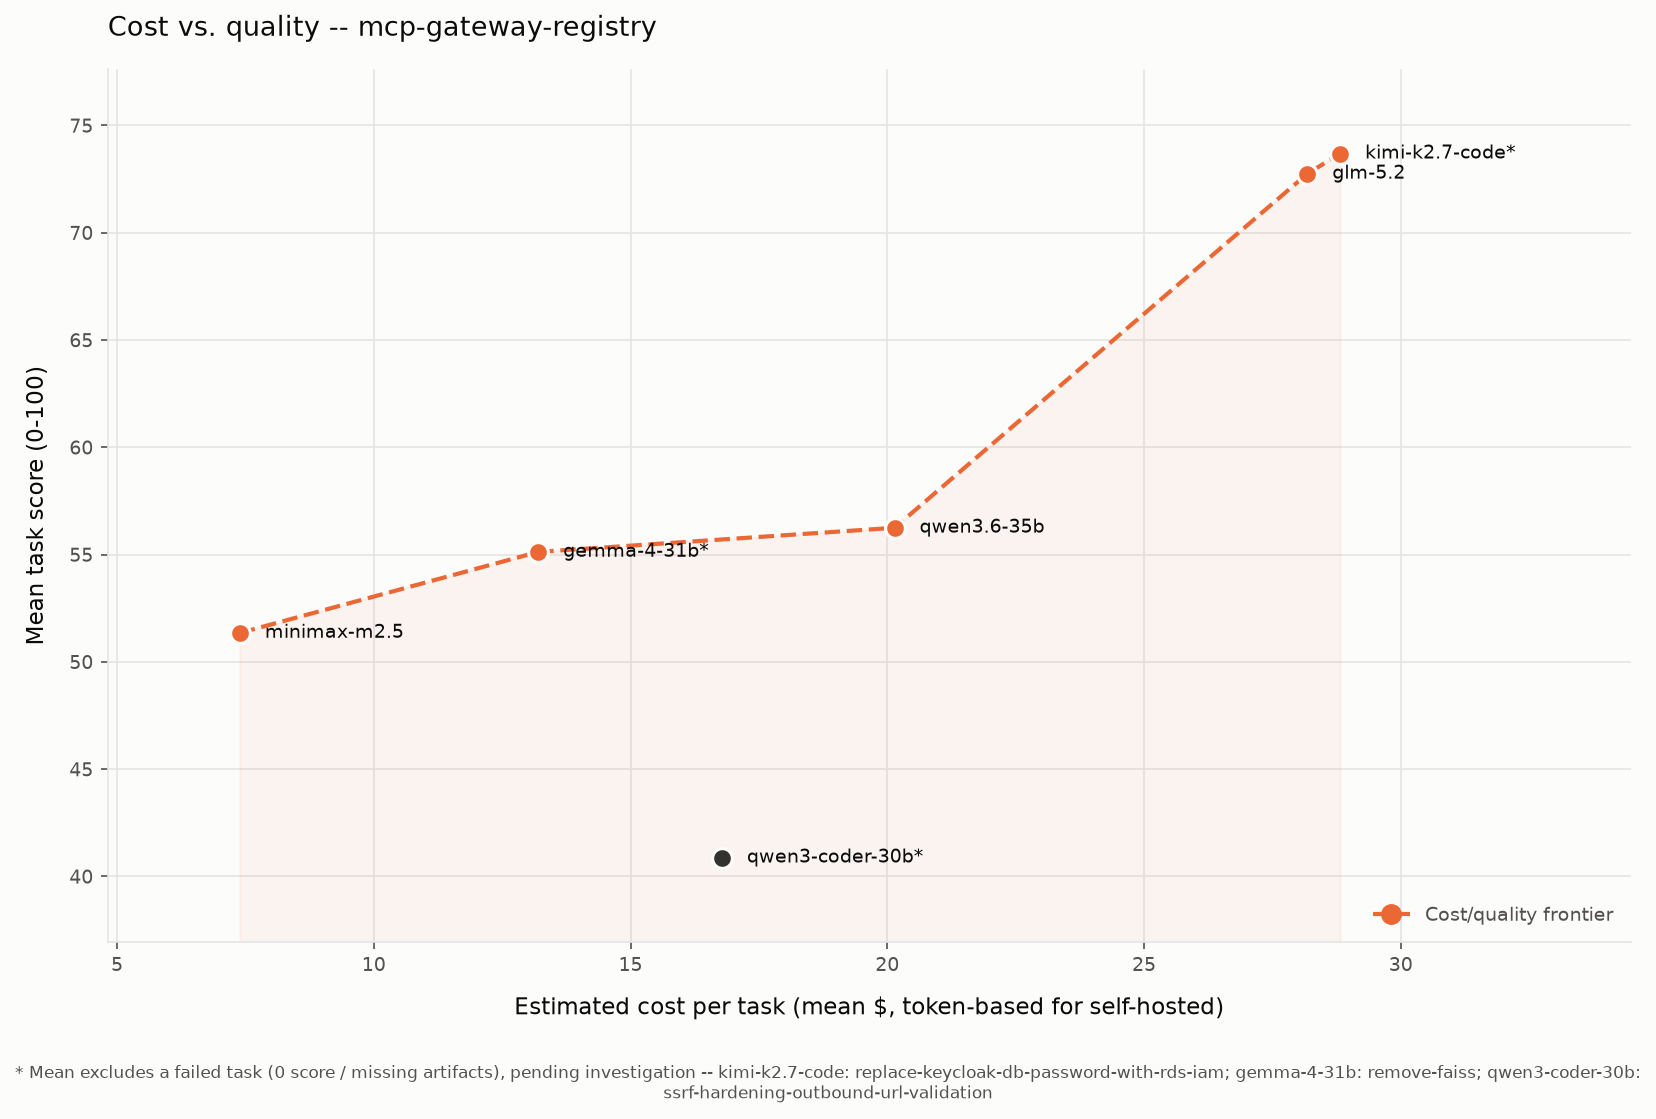
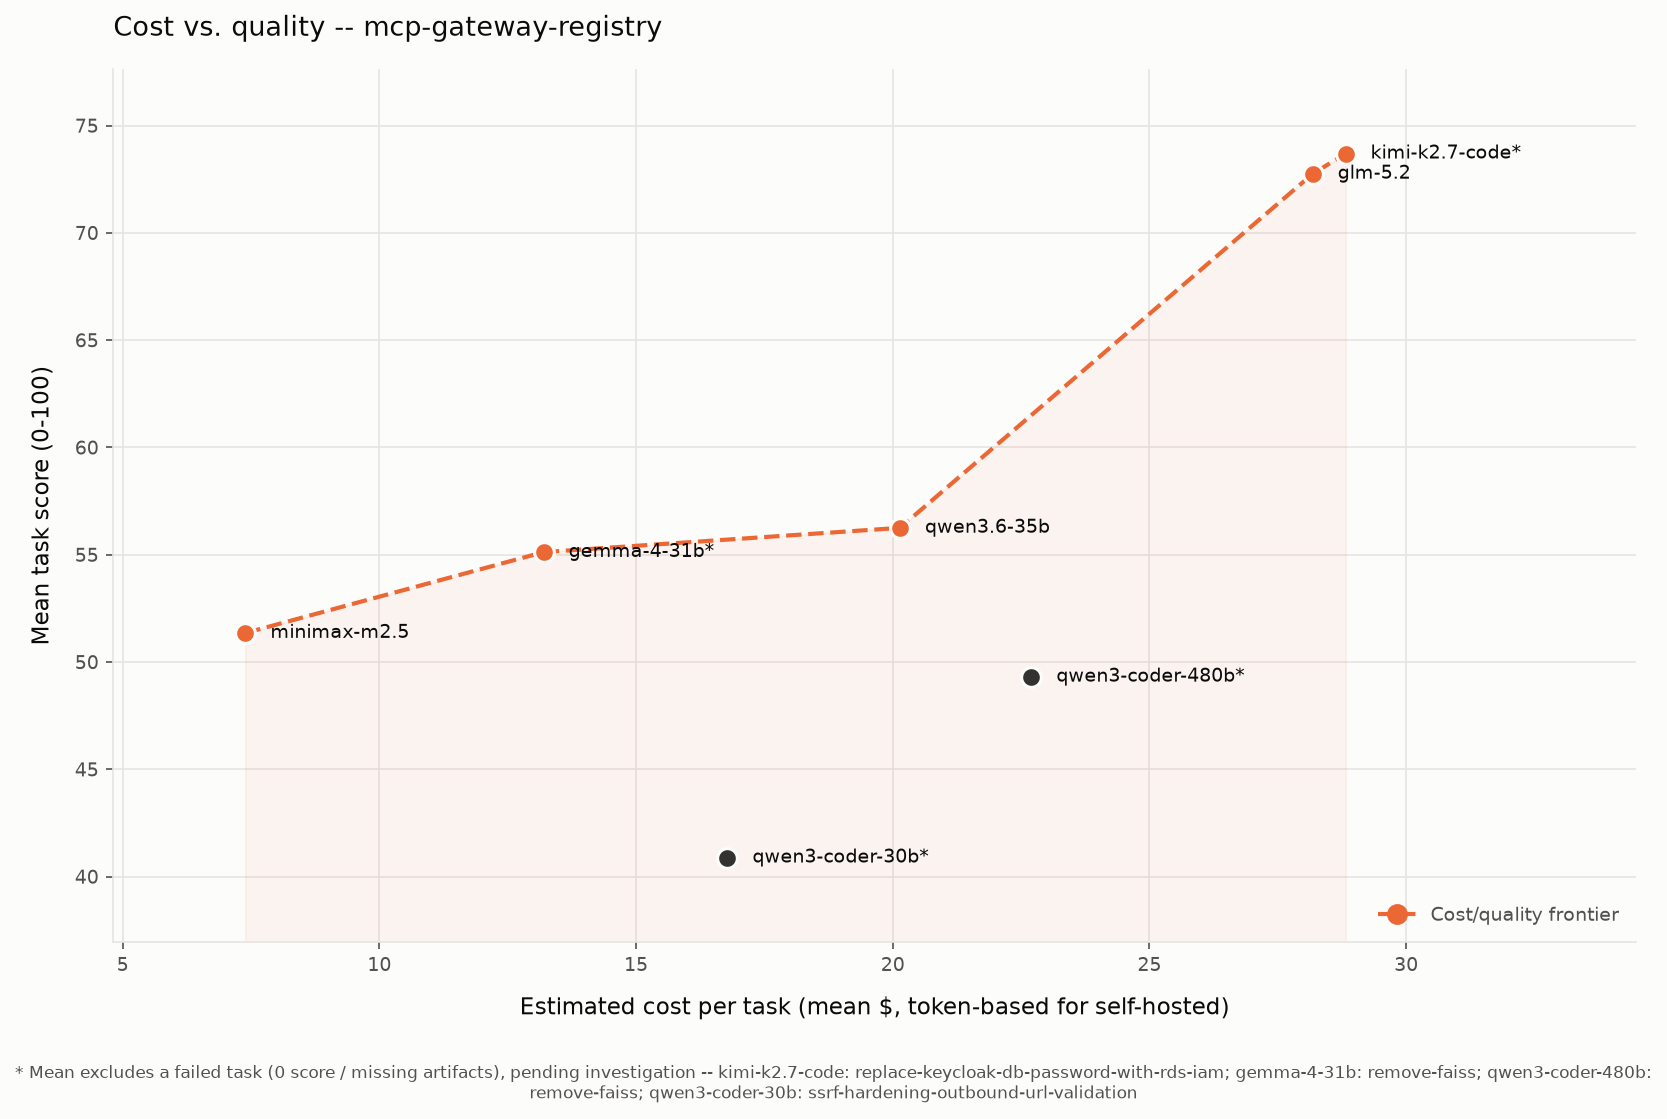
Add Qwen3-Coder-480B to README results; plot chart from RUN-SUMMARY.json
Add the Qwen3-Coder-480B-A35B-Instruct self-hosted result (8x H200, TP=4, FP8,
mean 49.31 over 4/5 tasks) to the README: a new column in the results matrix,
a leaderboard row, the models-benchmarked and hardware lines, and footnote 7
documenting its nondeterministic artifact-authoring failures (the pass/fail set
flips run to run; re-running does not reliably fix a given task).

Regenerate the cost-vs-quality chart (light + dark) to include all seven
self-hosted models. To make the chart reproducible from committed data, teach
plot_cost_quality.py to read each model's committed RUN-SUMMARY.json first
(which carries the leaderboard-convention means for every model, including runs
produced on another node), falling back to per-task metrics.json/eval.json when
no summary is present. Qwen3-Coder-480B and Qwen3-Coder-30B both plot below the
cost/quality frontier.

diff --git a/benchmarks/scripts/plot_cost_quality.py b/benchmarks/scripts/plot_cost_quality.py
@@ -7,11 +7,15 @@ scores shown in the README leaderboard) on the y-axis. Non-dominated models --
 those where no other model is both cheaper and higher-scoring -- are connected by
 a highlighted frontier line, so the cost/quality trade-off is read at a glance.
 
-Each model's numbers come straight from its per-task ``metrics.json``
-(``total_cost_usd``) and ``eval.json`` (``task_score``). A task that scored 0 (a
-model failure -- missing artifacts) is an unresolved anomaly, not a quality
-reading, so it is EXCLUDED from both the score and cost means and noted on the
-chart, pending investigation.
+Each model's numbers come from its committed ``RUN-SUMMARY.json`` when present
+(the reproducible, machine-readable per-run record written by
+``summarize_run.py``), falling back to aggregating the per-task ``metrics.json``
+(``total_cost_usd``) and ``eval.json`` (``task_score``) when it is not. Using the
+summary means the chart plots every model in the repo -- including runs produced
+on a different node whose gitignored per-task files are not present locally. A
+task that scored 0 (a model failure -- missing artifacts) is an unresolved
+anomaly, not a quality reading, so it is EXCLUDED from both the score and cost
+means and noted on the chart, pending investigation.
 
 Note: for self-hosted vLLM runs ``total_cost_usd`` is a token-based *estimate*
 (the served model has no per-token bill), so the x-axis is labelled as estimated.
@@ -50,6 +54,12 @@ DEFAULT_DATA_DIR = _BENCHMARKS_DIR / "swe-benchmark-data"
 DEFAULT_OUTPUT = _REPO_ROOT / "docs" / "images" / "cost-quality.png"
 METRICS_FILENAME = "metrics.json"
 EVAL_FILENAME = "eval.json"
+# The committed, machine-readable per-run summary (written by summarize_run.py).
+# Preferred source: it carries the same excluded-failure means as the leaderboard
+# and, unlike the gitignored per-task metrics.json/eval.json, is present for every
+# model in the repo -- including runs produced on a different node. This is what
+# makes the chart reproducible from committed data alone.
+RUN_SUMMARY_FILENAME = "RUN-SUMMARY.json"
 
 # Palette (from the dataviz skill's validated reference instance). Marks are a
 # recessive dark neutral; the frontier is the warm accent. Text wears ink tokens.
@@ -111,20 +121,59 @@ def _task_score(eval_data: dict | None) -> float | None:
     return float(score) if isinstance(score, (int, float)) else None
 
 
-def _aggregate_model(model_repo_dir: Path) -> ModelPoint | None:
-    """Aggregate one model's per-task cost and score under a repo directory.
+def _point_from_summary(model_repo_dir: Path) -> ModelPoint | None:
+    """Build a ModelPoint from the committed RUN-SUMMARY.json, if present.
 
-    A task folder must have ``metrics.json`` (for cost) to count. Tasks that
-    scored 0 -- a genuine model failure (missing/empty artifacts) rather than a
-    quality measurement -- are **excluded** from both the score and cost means
-    and returned in ``excluded`` for a visible note, pending investigation.
+    RUN-SUMMARY.json already carries the leaderboard-convention means (failed
+    0-score tasks excluded) and is committed for every model, so it is the
+    preferred, fully reproducible source. Returns None when the file is absent
+    or lacks a usable mean score, so the caller can fall back to per-task files.
 
     Args:
         model_repo_dir: ``<data-dir>/<model>/<repo>`` directory.
 
     Returns:
-        The model's aggregate, or None if it has no task folders at all.
+        The model's aggregate, or None if no usable summary exists.
     """
+    summary = _read_json(model_repo_dir / RUN_SUMMARY_FILENAME)
+    if summary is None:
+        return None
+    score = summary.get("mean_task_score_excl_failed")
+    if not isinstance(score, (int, float)):
+        return None
+    cost = summary.get("mean_cost_usd_excl_failed")
+    excluded = summary.get("failed_tasks") or []
+    return ModelPoint(
+        model=model_repo_dir.parent.name,
+        mean_cost=float(cost) if isinstance(cost, (int, float)) else 0.0,
+        mean_score=float(score),
+        n_tasks=int(summary.get("num_tasks") or 0),
+        n_scored=int(summary.get("num_scored") or 0),
+        excluded=list(excluded),
+    )
+
+
+def _aggregate_model(model_repo_dir: Path) -> ModelPoint | None:
+    """Aggregate one model's cost and score under a repo directory.
+
+    Prefers the committed ``RUN-SUMMARY.json`` (present for every model and
+    reproducible from git). Falls back to aggregating the per-task
+    ``metrics.json`` / ``eval.json`` when no summary exists (e.g. a fresh run
+    not yet summarized). Tasks that scored 0 -- a genuine model failure
+    (missing/empty artifacts) rather than a quality measurement -- are
+    **excluded** from both means and returned in ``excluded`` for a visible
+    note, pending investigation.
+
+    Args:
+        model_repo_dir: ``<data-dir>/<model>/<repo>`` directory.
+
+    Returns:
+        The model's aggregate, or None if it has neither a summary nor tasks.
+    """
+    from_summary = _point_from_summary(model_repo_dir)
+    if from_summary is not None:
+        return from_summary
+
     model = model_repo_dir.parent.name
     costs: list[float] = []
     scores: list[float] = []

diff --git a/README.md b/README.md
@@ -107,7 +107,7 @@ To show what the harness produces, we ran it against [agentic-community/mcp-gate
 | 4 | `migrate-ecs-env-vars-to-secrets-manager` | High | Upstream [#1134](https://github.com/agentic-community/mcp-gateway-registry/issues/1134) |
 | 5 | `replace-keycloak-db-password-with-rds-iam` | High | Upstream [#1303](https://github.com/agentic-community/mcp-gateway-registry/issues/1303) |
 
-**Models benchmarked so far (all Path 3, self-hosted on vLLM):** Kimi-K2.7-Code, GLM-5.2, and MiniMax-M2.5 (all on 8x H200 / `p5en.48xlarge`), plus Qwen3.6-35B-A3B, Qwen3-Coder-30B-A3B-Instruct, Qwen3-Coder-Next, and Gemma-4-31B-it (on `g6e.12xlarge` / 4x L40S). **Coming soon:** Path 1 (Anthropic family on Bedrock -- Claude Opus/Sonnet/Haiku) and Path 2 (open-weight on Bedrock via the LiteLLM proxy -- DeepSeek, Mistral, …).
+**Models benchmarked so far (all Path 3, self-hosted on vLLM):** Kimi-K2.7-Code, GLM-5.2, MiniMax-M2.5, and Qwen3-Coder-480B-A35B-Instruct (all on 8x H200 / `p5en.48xlarge`), plus Qwen3.6-35B-A3B, Qwen3-Coder-30B-A3B-Instruct, Qwen3-Coder-Next, and Gemma-4-31B-it (on `g6e.12xlarge` / 4x L40S). **Coming soon:** Path 1 (Anthropic family on Bedrock -- Claude Opus/Sonnet/Haiku) and Path 2 (open-weight on Bedrock via the LiteLLM proxy -- DeepSeek, Mistral, …).
 
 ### Scoring rubric (LLM-as-judge)
 
@@ -126,18 +126,18 @@ Each of the 4 artifacts is scored 0-100 by an independent judge session. Within 
 
 All cells are task scores (0-100), the mean of the 4 artifact totals per (task x model). All models were **self-hosted via vLLM** and scored by the same judge (`codex exec`, `gpt-5.6-sol`, high reasoning effort). Hardware differs by model size (see the row under the table). Bold = top score in row. Other hosting paths are **coming soon**.
 
-| Task | Difficulty | Kimi-K2.7-Code | GLM-5.2⁶ | Qwen3.6-35B | Gemma-4-31B | MiniMax-M2.5 | Qwen3-Coder-30B | Qwen3-Coder-Next⁴ |
-|------|-----------|---------------:|---------:|------------:|------------:|-------------:|----------------:|:-----------------:|
-| `remove-faiss` | Medium | **75.25** | 66.0 | 59.25 | 0.0 ⁵ | 55.75 | 49.0 | n/a |
-| `remove-efs-from-terraform-aws-ecs` | Medium | 71.25 | **79.0** | 63.0 | 59.5 | 58.5 | 45.0 | n/a |
-| `ssrf-hardening-outbound-url-validation` | Medium | 72.75 | **76.75** | 55.75 | 63.25 | 49.5 | 0.0 ⁵ | n/a |
-| `migrate-ecs-env-vars-to-secrets-manager` | High | **75.5** | 73.5 | 54.5 | 45.75 | 45.0 | 36.25 | n/a |
-| `replace-keycloak-db-password-with-rds-iam` | High | 0.0 ⁵ | **68.5** | 48.75 | 52.0 | 48.0 | 33.25 | n/a |
-| **Mean (excl. failed task⁵)** | | **73.69** | 72.75 | **56.25** | 55.12 | 51.35 | 40.88 | n/a |
+| Task | Difficulty | Kimi-K2.7-Code | GLM-5.2⁶ | Qwen3.6-35B | Gemma-4-31B | MiniMax-M2.5 | Qwen3-Coder-480B⁷ | Qwen3-Coder-30B | Qwen3-Coder-Next⁴ |
+|------|-----------|---------------:|---------:|------------:|------------:|-------------:|------------------:|----------------:|:-----------------:|
+| `remove-faiss` | Medium | **75.25** | 66.0 | 59.25 | 0.0 ⁵ | 55.75 | 0.0 ⁵ | 49.0 | n/a |
+| `remove-efs-from-terraform-aws-ecs` | Medium | 71.25 | **79.0** | 63.0 | 59.5 | 58.5 | 52.25 | 45.0 | n/a |
+| `ssrf-hardening-outbound-url-validation` | Medium | 72.75 | **76.75** | 55.75 | 63.25 | 49.5 | 56.0 | 0.0 ⁵ | n/a |
+| `migrate-ecs-env-vars-to-secrets-manager` | High | **75.5** | 73.5 | 54.5 | 45.75 | 45.0 | 44.75 | 36.25 | n/a |
+| `replace-keycloak-db-password-with-rds-iam` | High | 0.0 ⁵ | **68.5** | 48.75 | 52.0 | 48.0 | 44.25 | 33.25 | n/a |
+| **Mean (excl. failed task⁵)** | | **73.69** | 72.75 | **56.25** | 55.12 | 51.35 | 49.31 | 40.88 | n/a |
 
-The **Mean** row excludes any task that scored 0 -- a genuine model failure (missing artifacts), which is an unresolved anomaly rather than a quality measurement, so it is left out of the average **pending further investigation** and flagged with `⁵`. Per-task 0.0 cells are still shown so the failure is visible; Kimi's mean is over the 4 tasks it completed, Gemma-4-31B's over its 4, Qwen3-Coder-30B's over its 4, and GLM-5.2 / Qwen3.6-35B / MiniMax-M2.5 over all 5 (no failures).
+The **Mean** row excludes any task that scored 0 -- a genuine model failure (missing artifacts), which is an unresolved anomaly rather than a quality measurement, so it is left out of the average **pending further investigation** and flagged with `⁵`. Per-task 0.0 cells are still shown so the failure is visible; Kimi's mean is over the 4 tasks it completed, Gemma-4-31B's over its 4, Qwen3-Coder-30B's over its 4, Qwen3-Coder-480B's over its 4, and GLM-5.2 / Qwen3.6-35B / MiniMax-M2.5 over all 5 (no failures).
 
-**Hardware:** Kimi-K2.7-Code (1.06T-param MoE, ~1 TB weights) ran on **8x H200** (`p5en.48xlarge`) at its full **131,072-token (128K) native context window**; GLM-5.2 (744B MoE / 40B active, ~750 GB FP8 weights) and MiniMax-M2.5 also ran on **8x H200** (`p5en.48xlarge`); the three Qwen models (3B-active MoE) and Gemma-4-31B (dense, ~63 GB) ran on a single **`g6e.12xlarge`** (4x L40S) at a 200K window. All via vLLM. Gemma-4-31B is dense and slow, so it used a raised per-task timeout (`--timeout-seconds 3600`); the default 1800s was not enough for it to return. Note Kimi's 128K window is below the harness's 200K agentic-coding guideline, yet it completed 4 of 5 tasks -- the one failure (`keycloak-rds-iam`) was a turn-cap timeout, not a context overflow.
+**Hardware:** Kimi-K2.7-Code (1.06T-param MoE, ~1 TB weights) ran on **8x H200** (`p5en.48xlarge`) at its full **131,072-token (128K) native context window**; GLM-5.2 (744B MoE / 40B active, ~750 GB FP8 weights), MiniMax-M2.5, and Qwen3-Coder-480B (480B MoE / 35B active, FP8, TP=4) also ran on **8x H200** (`p5en.48xlarge`); the three smaller Qwen models (3B-active MoE) and Gemma-4-31B (dense, ~63 GB) ran on a single **`g6e.12xlarge`** (4x L40S) at a 200K window. All via vLLM. Gemma-4-31B is dense and slow, so it used a raised per-task timeout (`--timeout-seconds 3600`); the default 1800s was not enough for it to return. Note Kimi's 128K window is below the harness's 200K agentic-coding guideline, yet it completed 4 of 5 tasks -- the one failure (`keycloak-rds-iam`) was a turn-cap timeout, not a context overflow.
 
 ⁴ Qwen3-Coder-Next (79.6B, ~160 GB weights) **could not be benchmarked on the `g6e.12xlarge`.** There the weights leave room for only a ~16K context window, but agentic coding tasks need 100K-250K input tokens per request, so every task overflows the window on the first prompt. It needs a larger-VRAM node (e.g. `g6e.48xlarge`) to serve a >=200K window. The `/benchmark` skill enforces a 200K-minimum gate by default as a conservative guideline -- Kimi's 128K run shows a window somewhat below 200K can still work when the tasks fit, but 16K cannot. See [self-hosted/vllm/models/qwen3-coder-next.md](self-hosted/vllm/models/qwen3-coder-next.md).
 
@@ -145,11 +145,13 @@ The **Mean** row excludes any task that scored 0 -- a genuine model failure (mis
 
 ⁶ **GLM-5.2 ran with more headroom than the others -- not strictly apples-to-apples.** GLM-5.2 (`zai-org/GLM-5.2-FP8`, 744B MoE / 40B active, ~750 GB FP8 weights) was served on **8x H200** at a **300K context window** and run with **`max_turns=100`**, whereas Kimi ran at its native 128K window and all models above used the default 60-turn cap. The larger turn budget is why GLM-5.2 completed all 5 tasks including `keycloak-rds-iam` (the task Kimi failed at the 60-turn cap): its mean is over 5/5 tasks with no failures. Treat the GLM-5.2 vs Kimi comparison as indicative rather than head-to-head until both are re-run under identical window/turn settings.
 
+⁷ **Qwen3-Coder-480B intermittently fails to produce artifacts -- the failure is nondeterministic, not task-specific.** Qwen3-Coder-480B (`Qwen/Qwen3-Coder-480B-A35B-Instruct-FP8`, 480B MoE / 35B active) was served on the **8x H200** node at **TP=4** (a block-FP8 MoE sharding constraint forces TP=4, not 8 -- see [its model guide](self-hosted/vllm/models/qwen3-coder-480b.md)), 200K window, `max_turns=100`. Like the smaller Qwen3-Coder-30B, it periodically explores/edits the repo instead of writing the four design artifacts (or runs away and exhausts the turn cap), scoring 0. Re-running does **not** reliably fix a given task: across two full runs, four of the five tasks flipped pass/fail state -- the three that failed the first run all recovered, while `remove-faiss` (which passed run 1) failed run 2 at the turn cap. The table shows the second run (4/5, mean 49.31). It is a harness-conformance instability of a coder-tuned model in a design-only harness, not a serving or context problem.
+
 ### Cost vs. quality
 
 ![Cost vs. quality scatter: mean estimated cost per task against mean task score, for the self-hosted models, with the cost/quality frontier highlighted](docs/images/cost-quality.png)
 
-Mean estimated cost per task (x, token-based for self-hosted) against mean task score (y), one point per model. The cost/quality frontier runs MiniMax-M2.5 -> Gemma-4-31B -> Qwen3.6-35B -> GLM-5.2 -> Kimi-K2.7-Code; Qwen3-Coder-30B sits **below** the frontier (dominated -- it costs more than Gemma-4-31B yet scores lower), and Qwen3-Coder-Next is omitted (no scored run on this node). A model's mean excludes any 0-score failed task, matching the table (see footnote ⁵). Regenerate from the run artifacts with `uv run scripts/plot_cost_quality.py` (add `--dark` for the dark theme) from `benchmarks/`.
+Mean estimated cost per task (x, token-based for self-hosted) against mean task score (y), one point per model. The cost/quality frontier runs MiniMax-M2.5 -> Gemma-4-31B -> Qwen3.6-35B -> GLM-5.2 -> Kimi-K2.7-Code; Qwen3-Coder-30B and Qwen3-Coder-480B both sit **below** the frontier (dominated -- each costs more than a frontier model at its score yet scores lower; the 480B in particular lands at ~$22.7/49.31, well inside the frontier), and Qwen3-Coder-Next is omitted (no scored run on this node). A model's mean excludes any 0-score failed task, matching the table (see footnote ⁵). Regenerate from the run artifacts with `uv run scripts/plot_cost_quality.py` (add `--dark` for the dark theme) from `benchmarks/`.
 
 ### Per-model leaderboard (self-hosted, so far)
 
@@ -162,7 +164,8 @@ Mean score is over the tasks each model completed (any 0-score failed task is ex
 | 3 | Qwen3.6-35B-A3B | 35.9B (3B) | g6e.12xlarge | **56.25** | 5/5 |
 | 4 | Gemma-4-31B-it | 31B (dense) | g6e.12xlarge | **55.12** | 4/5 |
 | 5 | MiniMax-M2.5 | -- | 8x H200 | **51.35** | 5/5 |
-| 6 | Qwen3-Coder-30B-A3B-Instruct | 30.5B (3B) | g6e.12xlarge | **40.88** | 4/5 |
+| 6 | Qwen3-Coder-480B-A35B-Instruct⁷ | 480B (35B) | 8x H200 (TP=4) | **49.31** | 4/5 |
+| 7 | Qwen3-Coder-30B-A3B-Instruct | 30.5B (3B) | g6e.12xlarge | **40.88** | 4/5 |
 | - | Qwen3-Coder-Next | 79.6B (3B) | (needs bigger node) | not viable on g6e.12xlarge | 0 |
 
 **Coming soon:** Claude Opus/Sonnet/Haiku (Path 1, Bedrock) and the open-weight Bedrock models via the LiteLLM proxy (Path 2 -- DeepSeek, Mistral, …).
